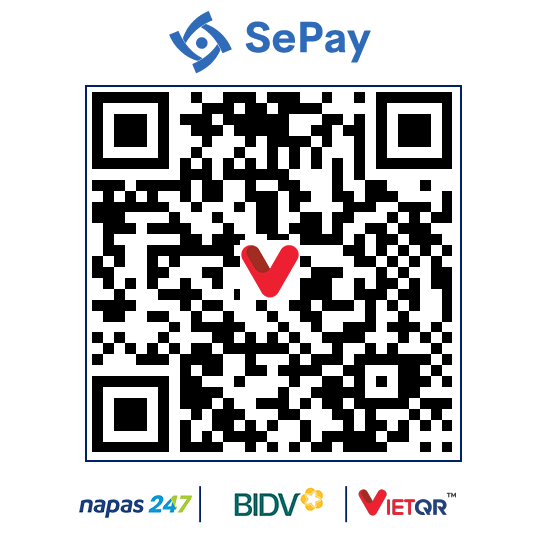
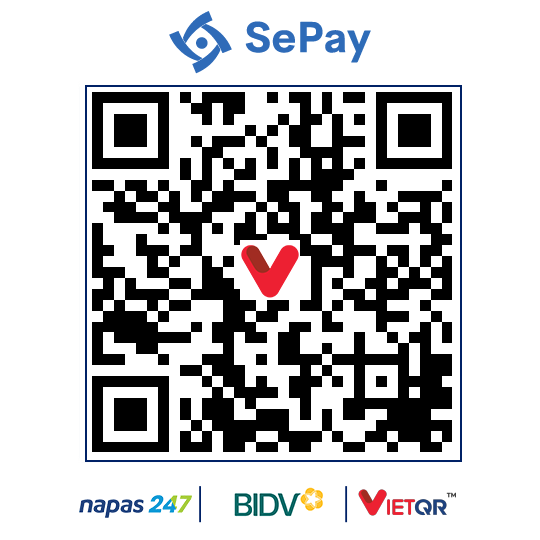
Add sepay VA column

Changed region(s): [[0.1481, 0.1481, 0.8593, 0.8593]]

diff --git a/src/pages/InvoicePage.tsx b/src/pages/InvoicePage.tsx
@@ -8,10 +8,10 @@ import { format } from 'date-fns';
 import { vi } from 'date-fns/locale';
 import { useToast } from '@/hooks/use-toast';
 
-// SePay VA - thanh toán qua tài khoản ảo, không chuyển trực tiếp
-const SEPAY_VA_BANK = 'BIDV';
-const SEPAY_VA_ACCOUNT = '50110001090777'; // Tài khoản ảo SePay VA
-const SEPAY_VA_HOLDER = 'TUAN DAT LUXURY';
+// Fallback VA (chỉ dùng khi API SePay không trả VA)
+const FALLBACK_VA = '50110001090777';
+const VA_BANK = 'BIDV';
+const VA_HOLDER = 'TUAN DAT LUXURY';
 
 const InvoicePage = () => {
   const { bookingCode } = useParams();
@@ -101,8 +101,11 @@ const InvoicePage = () => {
   const remainingAmount = booking.remaining_amount || (booking.total_price_vnd - depositAmount);
   const isDepositPaid = booking.payment_status === 'DEPOSIT_PAID' || booking.payment_status === 'PAID';
 
-  // Dynamic QR URL from SePay
-  const qrUrl = `https://qr.sepay.vn/img?acc=${SEPAY_VA_ACCOUNT}&bank=${SEPAY_VA_BANK}&amount=${depositAmount}&des=${encodeURIComponent(booking.booking_code)}`;
+  // Dynamic VA from booking record (from SePay API), fallback to default
+  const vaAccount = booking.sepay_va || FALLBACK_VA;
+
+  // Dynamic QR URL using VietQR format
+  const qrUrl = `https://img.vietqr.io/image/${VA_BANK}-${vaAccount}-compact.png?amount=${depositAmount}&addInfo=${encodeURIComponent(booking.booking_code)}`;
 
   return (
     <div className="min-h-screen bg-secondary py-10 px-4 print:bg-white print:py-0">
@@ -269,22 +272,22 @@ const InvoicePage = () => {
               <div className="border-2 border-dashed border-amber-400 rounded-xl p-5 bg-amber-50 print:border-amber-300">
                 <h3 className="font-display font-semibold text-base mb-4 text-center text-amber-900">💳 THANH TOÁN ĐẶT CỌC</h3>
                 
-                {/* SePay VA info */}
+                {/* SePay VA info - dynamic per booking */}
                 <div className="bg-white rounded-lg p-4 mb-4 space-y-2 text-sm">
                   <div className="flex justify-between">
                     <span className="text-muted-foreground">🏦 Ngân hàng:</span>
-                    <span className="font-bold">{SEPAY_VA_BANK}</span>
+                    <span className="font-bold">{VA_BANK}</span>
                   </div>
                   <div className="flex justify-between">
-                    <span className="text-muted-foreground">🔢 Số tài khoản:</span>
-                    <span className="font-bold">{SEPAY_VA_ACCOUNT}</span>
+                    <span className="text-muted-foreground">🔢 Số tài khoản (VA):</span>
+                    <span className="font-bold">{vaAccount}</span>
                   </div>
                   <div className="flex justify-between">
                     <span className="text-muted-foreground">👤 Chủ tài khoản:</span>
-                    <span className="font-bold">{SEPAY_VA_HOLDER}</span>
+                    <span className="font-bold">{VA_HOLDER}</span>
                   </div>
                   <p className="text-xs text-amber-700 text-center mt-2">
-                    ⚠ Vui lòng chuyển khoản đúng thông tin trên hoặc quét mã QR bên dưới.
+                    ⚠ Chỉ chuyển khoản qua tài khoản ảo (VA) hoặc quét mã QR bên dưới.
                   </p>
                 </div>
 

diff --git a/supabase/functions/send-booking-email/index.ts b/supabase/functions/send-booking-email/index.ts
@@ -17,10 +17,9 @@ const HOTEL_ADDRESS = "LK29-20 cạnh cổng FLC Sầm Sơn, Thanh Hóa, Việt 
 const HOTEL_PHONES = "098.360.5768 | 036.984.5422 | 098.661.7939";
 const HOTEL_EMAIL_DISPLAY = "tuandatluxuryflc36hotel@gmail.com";
 
-// SePay VA - tài khoản ảo, KHÔNG hiển thị tài khoản thật
-const BANK_NAME = "BIDV";
-const ACCOUNT_NUMBER = "50110001090777"; // SePay VA
-const ACCOUNT_HOLDER = "TUAN DAT LUXURY";
+const VA_BANK = "BIDV";
+const VA_HOLDER = "TUAN DAT LUXURY";
+const FALLBACK_VA = "50110001090777";
 
 function formatDate(dateStr: string): string {
   const d = new Date(dateStr + "T00:00:00");
@@ -42,7 +41,9 @@ function buildInvoiceHtml(booking: any, roomName: string, invoiceNumber: string)
   const depositAmount = booking.deposit_amount || Math.round(booking.total_price_vnd * 0.5);
   const remainingAmount = booking.remaining_amount || (booking.total_price_vnd - depositAmount);
 
-  const qrUrl = `https://qr.sepay.vn/img?acc=${ACCOUNT_NUMBER}&bank=${BANK_NAME}&amount=${depositAmount}&des=${encodeURIComponent(booking.booking_code)}`;
+  // Use dynamic VA from booking, fallback to default
+  const vaAccount = booking.sepay_va || FALLBACK_VA;
+  const qrUrl = `https://img.vietqr.io/image/${VA_BANK}-${vaAccount}-compact.png?amount=${depositAmount}&addInfo=${encodeURIComponent(booking.booking_code)}`;
 
   return `<!DOCTYPE html>
 <html lang="vi">
@@ -99,9 +100,9 @@ function buildInvoiceHtml(booking: any, roomName: string, invoiceNumber: string)
     <div style="background:#FEF3C7;border:2px dashed #F59E0B;border-radius:10px;padding:16px;margin-top:20px;">
       <p style="margin:0 0 12px;font-size:14px;font-weight:700;color:#92400E;text-align:center;">💳 THANH TOÁN ĐẶT CỌC</p>
       <table style="width:100%;font-size:13px;line-height:1.8;margin-bottom:12px;">
-        <tr><td style="color:#92400E;width:45%;">🏦 Ngân hàng:</td><td style="font-weight:700;">${BANK_NAME}</td></tr>
-        <tr><td style="color:#92400E;">👤 Chủ tài khoản:</td><td style="font-weight:700;">${ACCOUNT_HOLDER}</td></tr>
-        <tr><td style="color:#92400E;">🔢 Số tài khoản:</td><td style="font-weight:700;">${ACCOUNT_NUMBER}</td></tr>
+        <tr><td style="color:#92400E;width:45%;">🏦 Ngân hàng:</td><td style="font-weight:700;">${VA_BANK}</td></tr>
+        <tr><td style="color:#92400E;">👤 Chủ tài khoản:</td><td style="font-weight:700;">${VA_HOLDER}</td></tr>
+        <tr><td style="color:#92400E;">🔢 Số tài khoản (VA):</td><td style="font-weight:700;">${vaAccount}</td></tr>
       </table>
       <div style="text-align:center;">
         <img src="${qrUrl}" alt="QR Thanh toán" style="width:180px;height:180px;border-radius:8px;margin-bottom:12px;" />

diff --git a/supabase/functions/create-booking/index.ts b/supabase/functions/create-booking/index.ts
@@ -15,6 +15,46 @@ function generateBookingCodePrefix(): string {
   return `TD${year}${month}A`;
 }
 
+async function createSepayVA(bookingCode: string, amount: number): Promise<string | null> {
+  const apiKey = Deno.env.get("SEPAY_API_KEY");
+  if (!apiKey) {
+    console.error("SEPAY_API_KEY not configured");
+    return null;
+  }
+
+  try {
+    const res = await fetch("https://my.sepay.vn/userapi/bank-accounts/virtual", {
+      method: "POST",
+      headers: {
+        "Authorization": `Bearer ${apiKey}`,
+        "Content-Type": "application/json",
+      },
+      body: JSON.stringify({
+        content: bookingCode,
+        amount: amount,
+      }),
+    });
+
+    const data = await res.json();
+    console.log("SePay VA response:", JSON.stringify(data));
+
+    if (data.status === 200 && data.messages?.success && data.data?.account_number) {
+      return data.data.account_number;
+    }
+
+    // Fallback: try alternative response structure
+    if (data.account_number) {
+      return data.account_number;
+    }
+
+    console.error("SePay VA creation failed:", JSON.stringify(data));
+    return null;
+  } catch (err) {
+    console.error("SePay VA API error:", err);
+    return null;
+  }
+}
+
 serve(async (req) => {
   if (req.method === "OPTIONS") {
     return new Response(null, { headers: corsHeaders });
@@ -38,7 +78,6 @@ serve(async (req) => {
     // Generate booking code with TDYYYYMMAXXXXX format
     const prefix = generateBookingCodePrefix();
     
-    // Find the last booking with this prefix to determine next number
     const { data: lastBookings } = await supabase
       .from("bookings")
       .select("booking_code")
@@ -61,6 +100,10 @@ serve(async (req) => {
     const depositAmount = Math.round(totalPrice * 0.5);
     const remainingAmount = totalPrice - depositAmount;
 
+    // Create SePay Virtual Account for this booking
+    const sepayVa = await createSepayVA(bookingCode, depositAmount);
+    console.log("SePay VA created:", sepayVa, "for booking:", bookingCode);
+
     // Insert booking
     const { data: booking, error: bookingError } = await supabase
       .from("bookings")
@@ -81,6 +124,7 @@ serve(async (req) => {
         payment_status: "PENDING",
         status: "pending",
         language: language || "vi",
+        sepay_va: sepayVa,
       })
       .select()
       .single();
@@ -121,7 +165,7 @@ serve(async (req) => {
           Authorization: `Bearer ${Deno.env.get("SUPABASE_ANON_KEY")}`,
         },
         body: JSON.stringify({
-          booking,
+          booking: { ...booking, sepay_va: sepayVa },
           room_name: room?.name_vi || room_id,
           invoice_number: bookingCode,
         }),
